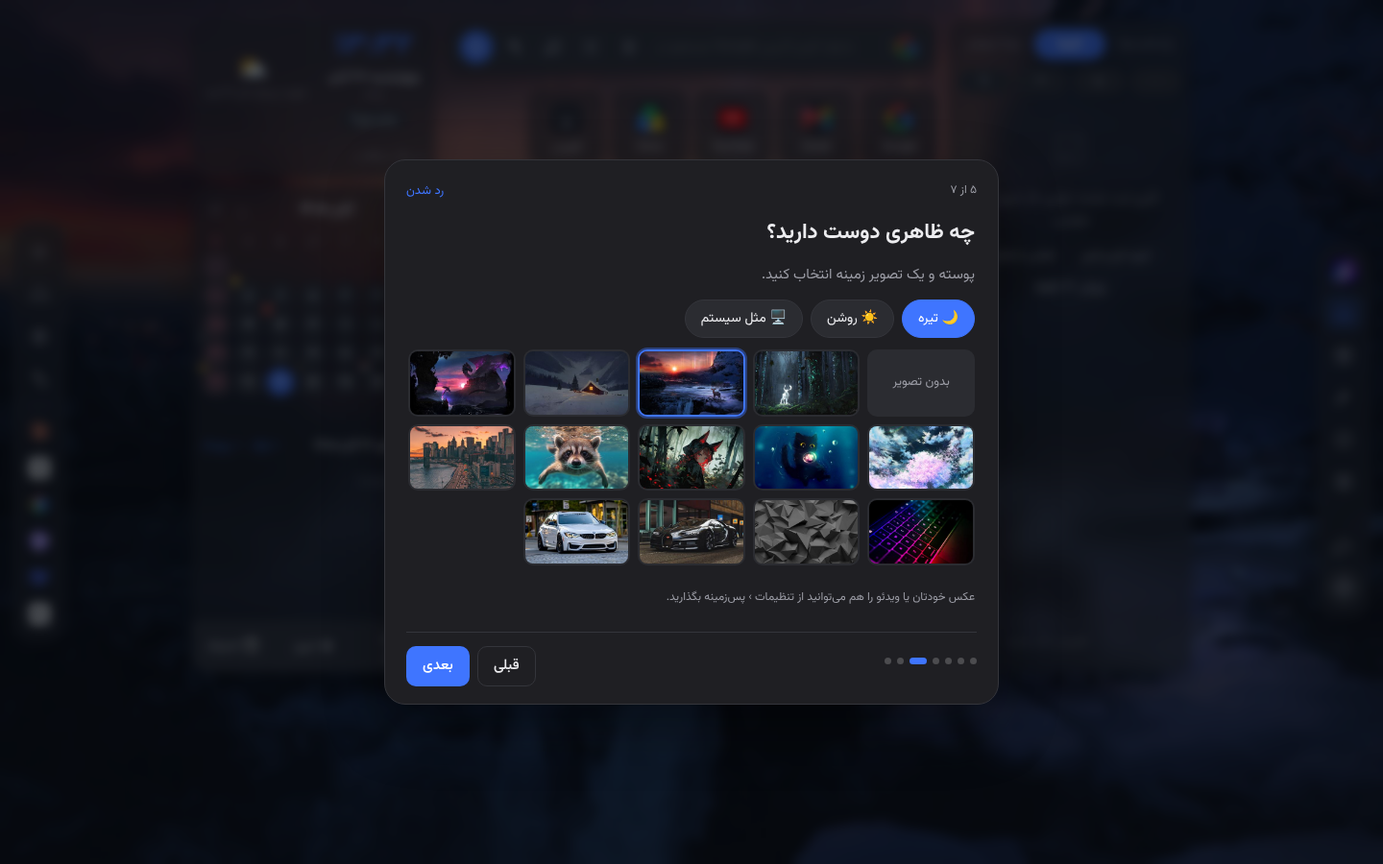
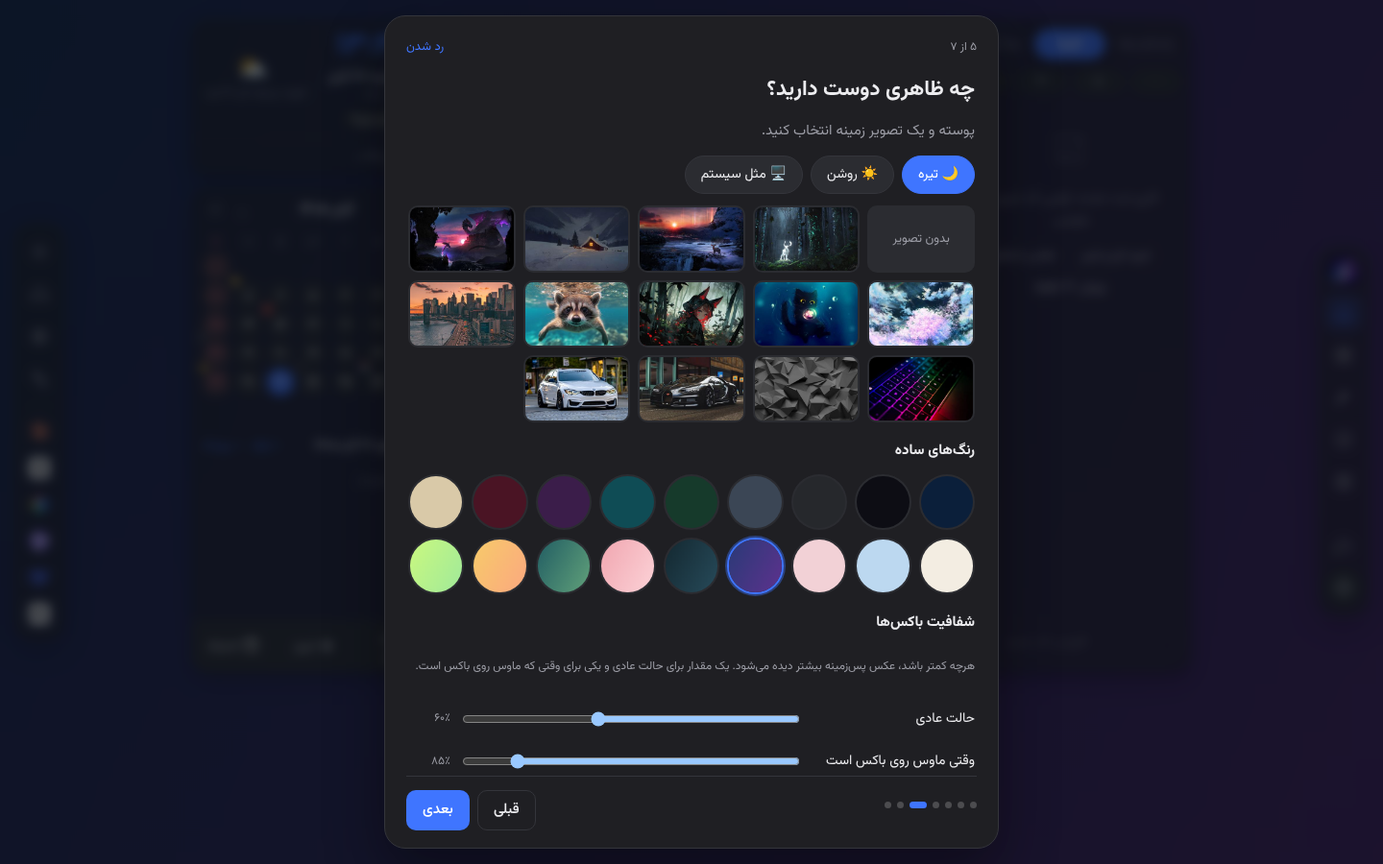
v2.15.1: plain colour backgrounds, box opacity in setup, Persian or Gregorian birthday
Claude-Session: https://claude.ai/code/session_01DpxMfDwJZ8eqR5twdjN4Bo

diff --git a/js/i18n.js b/js/i18n.js
@@ -4,6 +4,7 @@
 	"use strict";
 	const D = {};
 	D.fa = {
+		colorWalls: "رنگهای ساده", bdayPersian: "شمسی", bdayGregorian: "میلادی", bdayDay: "روز", bdayMonth: "ماه", bdayYear: "سال", bdayClear: "پاک کردن تاریخ تولد",
 		setupSkipAll: "رد شدن", setupStart: "بزن بریم", setupTour: "شروع گشت کوتاه", setupNoTour: "بدون گشت", setupHi: "سلام! به کامیار خوش آمدید 👋", setupHiText: "در چند قدم کوتاه کامیار را با سلیقهی شما آماده میکنیم. هر چیزی را بعداً هم میتوانید از تنظیمات عوض کنید. اول زبان را انتخاب کنید:", setupDataT: "اطلاعات قبلی دارید؟", setupDataText: "اگر قبلاً کامیار یا دستیار داشتهاید، اول اطلاعاتتان را بیاورید تا از صفر شروع نکنید.", setupChromeT: "حساب گوگل در کروم", setupChromeOn: "با حساب {email} وارد کروم شدهاید. اطلاعات کامیار خودکار در حساب گوگلتان نگه داشته میشود و به کامپیوترهای دیگرتان هم میآید.", setupChromeOff: "وارد کروم نشدهاید. اگر با حساب گوگل وارد کروم شوید، اطلاعات کامیار خودکار در حسابتان نگه داشته میشود و به کامپیوترهای دیگرتان میآید.", setupDriveT: "گوگل درایو", setupDriveText: "یک نسخه از همهچیز در گوگل درایو خودتان، برای بازگرداندن روی هر کامپیوتر.", setupWorking: "در حال وصل شدن…", setupDriveOk: "وصل شد ✓ {n} مورد در کامیار است.", setupDastyarT: "از دستیار میآیید؟", setupDastyarText: "کارها، یادداشتها، میانبرها، رویدادها و تولدها را از افزونهی دستیار منتقل کنید.", setupBackupT: "فایل پشتیبان کامیار دارید؟", setupBackupText: "فایل پشتیبانی را که قبلاً گرفتهاید باز کنید.", setupDataFresh: "اطلاعات قبلی ندارید؟ «بعدی» را بزنید.", setupYouT: "شما را چه صدا کنیم؟", setupYouText: "نامتان در سلام صبحگاهی و صفحهی اصلی میآید و روز تولدتان را هم تبریک میگوییم.", setupName: "نام", setupNamePh: "مثلاً محمد", setupBirthday: "تاریخ تولد (دلخواه)", setupYouNote: "این اطلاعات فقط در کامیار و حساب خودتان میماند.", setupCityT: "کجا زندگی میکنید؟", setupCityText: "برای آبوهوا، کیفیت هوا و اوقات شرعی. فقط نام شهر لازم است.", setupLookT: "چه ظاهری دوست دارید؟", setupLookText: "پوسته و یک تصویر زمینه انتخاب کنید.", setupDark: "تیره", setupLight: "روشن", setupAuto: "مثل سیستم", setupNoWall: "بدون تصویر", setupLookNote: "عکس خودتان یا ویدئو را هم میتوانید از تنظیمات › پسزمینه بگذارید.", setupBoxesT: "چه چیزهایی روی صفحه باشد؟", setupBoxesText: "باکسهایی را که لازم ندارید خاموش کنید. بعداً از دکمهی 🧩 «باکسها و قابلیتها» یا ✕ گوشهی هر باکس هم میشود عوضشان کرد.", setupHelpers: "یادآورها و کمکها", setupBoxesNote: "یادآور نماز وقتی کار میکند که شهرتان را انتخاب کرده باشید.", setupDoneT: "همهچیز آماده است!", setupDoneName: "{name}، همهچیز آماده است!", setupDoneText: "یک گشت کوتاه نشانتان میدهد هر چیز کجاست و چطور باکسها را روشن و خاموش کنید.",
 		svcWorld: "جهانی", svcIran: "ایرانی", svcMine: "دستههای من", svcSearch: "جستجوی سایت…", svcNoMatch: "سایتی پیدا نشد.", svcMineEmpty: "هنوز دستهای نساختهاید. یک دسته بسازید و سایتهای دلخواهتان را در آن بگذارید.",
 		svcManage: "مدیریت دستهها", svcManageHint: "دستههایی را که لازم ندارید خاموش کنید یا دستهی خودتان را بسازید و سایتهای دلخواهتان را در آن بگذارید.", svcNew: "دستهی جدید", svcNewName: "نام دسته، مثلاً سایتهای کاری", svcCats: "دستهها", svcHide: "خاموش کردن این دسته", svcHidden: "دستهی «{name}» خاموش شد. از ⚙ مدیریت دستهها روشنش کنید.", svcDeleted: "دستهی «{name}» حذف شد.", svcAddSite: "افزودن سایت", svcSiteName: "نام سایت", svcBadUrl: "نشانی سایت درست نیست.", svcEmpty: "هنوز سایتی اضافه نشده. با «افزودن سایت» شروع کنید.", salatRemind: "یادآور نماز", salatRemindHint: "وقتی وقت نماز باز است، کارتی کنار صفحه نشان میدهد چقدر تا پایان وقت مانده. شهر را در باکس آبوهوا انتخاب کنید.", salatFajr: "صبح", salatAsr: "ظهر و عصر", salatIsha: "مغرب و عشا", salatWhen: "کی نشان بده", salatAll: "از اول وقت", salat60: "یک ساعت مانده به پایان", salat30: "۳۰ دقیقه مانده به پایان", salat15: "۱۵ دقیقه مانده به پایان", salatNote: "پایان وقت: صبح تا طلوع آفتاب، ظهر و عصر تا غروب، مغرب و عشا تا نیمهشب شرعی. اوقات با روش مؤسسهی ژئوفیزیک دانشگاه تهران حساب میشود.", salatFajrT: "نماز صبح", salatAsrT: "نماز ظهر و عصر", salatIshaT: "نماز مغرب و عشا", salatLeft: "تا پایان وقت:", salatEnds: "{what} ساعت {at}", salatNeedCity: "برای یادآور نماز، اول شهرتان را در باکس آبوهوا وارد کنید.",
@@ -53,6 +54,7 @@
 		h_newyear: "سال نو میلادی", h_christmas: "کریسمس"
 	};
 	D.en = {
+		colorWalls: "Plain colours", bdayPersian: "Persian (Solar Hijri)", bdayGregorian: "Gregorian", bdayDay: "Day", bdayMonth: "Month", bdayYear: "Year", bdayClear: "Clear birthday",
 		setupSkipAll: "Skip", setupStart: "Let's go", setupTour: "Start the short tour", setupNoTour: "No tour", setupHi: "Hi! Welcome to Kamyar 👋", setupHiText: "A few quick steps to make Kamyar yours. You can change everything later in Settings. First, pick a language:", setupDataT: "Do you have data already?", setupDataText: "If you've used Kamyar or Dastyar before, bring your data in first so you don't start from scratch.", setupChromeT: "Google account in Chrome", setupChromeOn: "You're signed in to Chrome as {email}. Kamyar's data is kept in your Google account automatically and comes to your other computers too.", setupChromeOff: "You're not signed in to Chrome. Sign in with your Google account and Kamyar's data is kept in it automatically and comes to your other computers.", setupDriveT: "Google Drive", setupDriveText: "A copy of everything in your own Google Drive, to restore on any computer.", setupWorking: "Connecting…", setupDriveOk: "Connected ✓ Kamyar now has {n} items.", setupDastyarT: "Coming from Dastyar?", setupDastyarText: "Bring tasks, notes, shortcuts, events and birthdays over from the Dastyar extension.", setupBackupT: "Have a Kamyar backup file?", setupBackupText: "Open a backup file you saved before.", setupDataFresh: "Nothing to bring? Just press Next.", setupYouT: "What should we call you?", setupYouText: "Your name appears in the morning greeting and on the home page, and we'll wish you a happy birthday.", setupName: "Name", setupNamePh: "e.g. Sam", setupBirthday: "Birthday (optional)", setupYouNote: "This stays in Kamyar and your own account only.", setupCityT: "Where do you live?", setupCityText: "For weather, air quality and prayer times. Only the city name is needed.", setupLookT: "How should it look?", setupLookText: "Pick a theme and a background picture.", setupDark: "Dark", setupLight: "Light", setupAuto: "Like the system", setupNoWall: "No picture", setupLookNote: "You can also use your own photo or a video in Settings › Background.", setupBoxesT: "What should be on the page?", setupBoxesText: "Turn off boxes you don't need. You can change them later with 🧩 Boxes & features or the ✕ on each box.", setupHelpers: "Reminders and helpers", setupBoxesNote: "The prayer reminder works once your city is set.", setupDoneT: "All set!", setupDoneName: "{name}, you're all set!", setupDoneText: "A short tour shows where everything is and how to hide or show boxes.",
 		svcWorld: "Global", svcIran: "Iranian", svcMine: "My categories", svcSearch: "Search sites…", svcNoMatch: "No sites found.", svcMineEmpty: "You haven't made a category yet. Make one and put your favourite sites in it.",
 		svcManage: "Manage categories", svcManageHint: "Turn off categories you don't need, or make your own and put your favourite sites in it.", svcNew: "New category", svcNewName: "Category name, e.g. Work sites", svcCats: "Categories", svcHide: "Hide this category", svcHidden: "“{name}” is hidden. Turn it back on from ⚙ Manage categories.", svcDeleted: "“{name}” was deleted.", svcAddSite: "Add a site", svcSiteName: "Site name", svcBadUrl: "That address doesn't look right.", svcEmpty: "No sites yet. Start with “Add a site”.", salatRemind: "Prayer reminder", salatRemindHint: "While a prayer time is open, a card at the page edge shows how long is left. Pick your city in the weather box.", salatFajr: "Morning (Fajr)", salatAsr: "Noon & afternoon", salatIsha: "Evening & night", salatWhen: "Show it", salatAll: "From the start", salat60: "1 hour before the end", salat30: "30 minutes before the end", salat15: "15 minutes before the end", salatNote: "Ends: morning at sunrise, noon & afternoon at sunset, evening & night at the religious midnight. Times use the University of Tehran Geophysics method.", salatFajrT: "Morning prayer", salatAsrT: "Noon & afternoon prayer", salatIshaT: "Evening & night prayer", salatLeft: "Time left:", salatEnds: "{what} at {at}", salatNeedCity: "For the prayer reminder, first enter your city in the weather box.",
@@ -102,6 +104,7 @@
 		h_newyear: "New Year's Day", h_christmas: "Christmas"
 	};
 	D.fr = {
+		colorWalls: "Couleurs unies", bdayPersian: "Persan (hégire solaire)", bdayGregorian: "Grégorien", bdayDay: "Jour", bdayMonth: "Mois", bdayYear: "Année", bdayClear: "Effacer l'anniversaire",
 		setupSkipAll: "Passer", setupStart: "C'est parti", setupTour: "Lancer la visite", setupNoTour: "Sans visite", setupHi: "Bonjour ! Bienvenue dans Kamyar 👋", setupHiText: "Quelques étapes rapides pour personnaliser Kamyar. Tout reste modifiable dans les Réglages. Choisissez d'abord la langue :", setupDataT: "Vous avez déjà des données ?", setupDataText: "Si vous avez utilisé Kamyar ou Dastyar, importez d'abord vos données pour ne pas repartir de zéro.", setupChromeT: "Compte Google dans Chrome", setupChromeOn: "Vous êtes connecté à Chrome avec {email}. Les données de Kamyar sont gardées automatiquement dans votre compte Google et suivent vos autres ordinateurs.", setupChromeOff: "Vous n'êtes pas connecté à Chrome. Connectez-vous avec votre compte Google et les données de Kamyar y seront gardées automatiquement.", setupDriveT: "Google Drive", setupDriveText: "Une copie de tout dans votre Google Drive, à restaurer sur n'importe quel ordinateur.", setupWorking: "Connexion…", setupDriveOk: "Connecté ✓ Kamyar contient {n} éléments.", setupDastyarT: "Vous venez de Dastyar ?", setupDastyarText: "Importez tâches, notes, raccourcis, événements et anniversaires depuis l'extension Dastyar.", setupBackupT: "Un fichier de sauvegarde Kamyar ?", setupBackupText: "Ouvrez une sauvegarde faite auparavant.", setupDataFresh: "Rien à importer ? Appuyez sur Suivant.", setupYouT: "Comment vous appeler ?", setupYouText: "Votre nom apparaît dans le message du matin et sur l'accueil, et nous vous souhaiterons votre anniversaire.", setupName: "Nom", setupNamePh: "ex. Camille", setupBirthday: "Anniversaire (facultatif)", setupYouNote: "Ces données restent dans Kamyar et votre propre compte.", setupCityT: "Où habitez-vous ?", setupCityText: "Pour la météo, la qualité de l'air et les heures de prière. Le nom de la ville suffit.", setupLookT: "Quel style ?", setupLookText: "Choisissez un thème et une image de fond.", setupDark: "Sombre", setupLight: "Clair", setupAuto: "Comme le système", setupNoWall: "Sans image", setupLookNote: "Votre propre photo ou une vidéo se règle dans Réglages › Arrière-plan.", setupBoxesT: "Que mettre sur la page ?", setupBoxesText: "Désactivez les blocs inutiles. Modifiable plus tard via 🧩 Blocs et fonctions ou le ✕ de chaque bloc.", setupHelpers: "Rappels et aides", setupBoxesNote: "Le rappel de prière fonctionne une fois la ville choisie.", setupDoneT: "Tout est prêt !", setupDoneName: "{name}, tout est prêt !", setupDoneText: "Une courte visite montre où tout se trouve et comment masquer ou afficher les blocs.",
 		svcWorld: "International", svcIran: "Iraniens", svcMine: "Mes catégories", svcSearch: "Rechercher un site…", svcNoMatch: "Aucun site trouvé.", svcMineEmpty: "Vous n'avez pas encore de catégorie. Créez-en une pour vos sites préférés.",
 		svcManage: "Gérer les catégories", svcManageHint: "Désactivez les catégories inutiles ou créez la vôtre avec vos sites préférés.", svcNew: "Nouvelle catégorie", svcNewName: "Nom, ex. Sites de travail", svcCats: "Catégories", svcHide: "Masquer cette catégorie", svcHidden: "« {name} » est masquée. Réactivez-la via ⚙ Gérer les catégories.", svcDeleted: "« {name} » a été supprimée.", svcAddSite: "Ajouter un site", svcSiteName: "Nom du site", svcBadUrl: "Cette adresse semble incorrecte.", svcEmpty: "Aucun site pour l'instant. Commencez par « Ajouter un site ».", salatRemind: "Rappel de prière", salatRemindHint: "Pendant l'heure d'une prière, une carte au bord de la page indique le temps restant. Choisissez votre ville dans le bloc météo.", salatFajr: "Matin (Fajr)", salatAsr: "Midi et après-midi", salatIsha: "Soir et nuit", salatWhen: "Afficher", salatAll: "Dès le début", salat60: "1 h avant la fin", salat30: "30 min avant la fin", salat15: "15 min avant la fin", salatNote: "Fin : matin au lever du soleil, midi et après-midi au coucher, soir et nuit à minuit religieux. Méthode de l'Institut de géophysique de Téhéran.", salatFajrT: "Prière du matin", salatAsrT: "Prière de midi et de l'après-midi", salatIshaT: "Prière du soir et de la nuit", salatLeft: "Temps restant :", salatEnds: "{what} à {at}", salatNeedCity: "Pour le rappel de prière, indiquez d'abord votre ville dans le bloc météo.",
@@ -151,6 +154,7 @@
 		h_newyear: "Jour de l'An", h_christmas: "Noël"
 	};
 	D.de = {
+		colorWalls: "Einfarbig", bdayPersian: "Persisch (Sonnenhidschra)", bdayGregorian: "Gregorianisch", bdayDay: "Tag", bdayMonth: "Monat", bdayYear: "Jahr", bdayClear: "Geburtstag löschen",
 		setupSkipAll: "Überspringen", setupStart: "Los geht's", setupTour: "Kurze Tour starten", setupNoTour: "Ohne Tour", setupHi: "Hallo! Willkommen bei Kamyar 👋", setupHiText: "Ein paar kurze Schritte, um Kamyar einzurichten. Alles lässt sich später in den Einstellungen ändern. Wähle zuerst die Sprache:", setupDataT: "Hast du schon Daten?", setupDataText: "Wenn du Kamyar oder Dastyar schon genutzt hast, hol zuerst deine Daten, damit du nicht bei null anfängst.", setupChromeT: "Google-Konto in Chrome", setupChromeOn: "Du bist in Chrome als {email} angemeldet. Kamyars Daten werden automatisch in deinem Google-Konto gespeichert und kommen auf deine anderen Computer.", setupChromeOff: "Du bist nicht in Chrome angemeldet. Melde dich mit deinem Google-Konto an, dann werden Kamyars Daten automatisch darin gespeichert.", setupDriveT: "Google Drive", setupDriveText: "Eine Kopie von allem in deinem eigenen Google Drive, auf jedem Computer wiederherstellbar.", setupWorking: "Verbinde…", setupDriveOk: "Verbunden ✓ Kamyar hat jetzt {n} Einträge.", setupDastyarT: "Kommst du von Dastyar?", setupDastyarText: "Übernimm Aufgaben, Notizen, Verknüpfungen, Termine und Geburtstage aus der Dastyar-Erweiterung.", setupBackupT: "Eine Kamyar-Sicherung?", setupBackupText: "Öffne eine früher gespeicherte Sicherungsdatei.", setupDataFresh: "Nichts zu übernehmen? Einfach Weiter drücken.", setupYouT: "Wie sollen wir dich nennen?", setupYouText: "Dein Name erscheint im Morgengruß und auf der Startseite, und wir gratulieren dir zum Geburtstag.", setupName: "Name", setupNamePh: "z. B. Alex", setupBirthday: "Geburtstag (optional)", setupYouNote: "Das bleibt nur in Kamyar und deinem eigenen Konto.", setupCityT: "Wo wohnst du?", setupCityText: "Für Wetter, Luftqualität und Gebetszeiten. Nur der Stadtname wird gebraucht.", setupLookT: "Wie soll es aussehen?", setupLookText: "Wähle ein Design und ein Hintergrundbild.", setupDark: "Dunkel", setupLight: "Hell", setupAuto: "Wie das System", setupNoWall: "Kein Bild", setupLookNote: "Eigenes Foto oder Video unter Einstellungen › Hintergrund.", setupBoxesT: "Was soll auf die Seite?", setupBoxesText: "Schalte Boxen aus, die du nicht brauchst. Später änderbar über 🧩 Boxen & Funktionen oder das ✕ jeder Box.", setupHelpers: "Erinnerungen und Helfer", setupBoxesNote: "Die Gebetserinnerung funktioniert, sobald deine Stadt gesetzt ist.", setupDoneT: "Alles bereit!", setupDoneName: "{name}, alles bereit!", setupDoneText: "Eine kurze Tour zeigt, wo alles ist und wie man Boxen aus- und einblendet.",
 		svcWorld: "International", svcIran: "Iranisch", svcMine: "Meine Kategorien", svcSearch: "Seiten suchen…", svcNoMatch: "Keine Seiten gefunden.", svcMineEmpty: "Du hast noch keine Kategorie. Lege eine für deine Lieblingsseiten an.",
 		svcManage: "Kategorien verwalten", svcManageHint: "Schalte unnötige Kategorien aus oder lege eine eigene mit deinen Lieblingsseiten an.", svcNew: "Neue Kategorie", svcNewName: "Name, z. B. Arbeitsseiten", svcCats: "Kategorien", svcHide: "Kategorie ausblenden", svcHidden: "„{name}“ ist ausgeblendet. Über ⚙ Kategorien verwalten wieder einschalten.", svcDeleted: "„{name}“ wurde gelöscht.", svcAddSite: "Seite hinzufügen", svcSiteName: "Name der Seite", svcBadUrl: "Diese Adresse sieht nicht richtig aus.", svcEmpty: "Noch keine Seiten. Beginne mit „Seite hinzufügen“.", salatRemind: "Gebetserinnerung", salatRemindHint: "Solange eine Gebetszeit läuft, zeigt eine Karte am Rand, wie viel Zeit bleibt. Wähle deine Stadt in der Wetterbox.", salatFajr: "Morgen (Fadschr)", salatAsr: "Mittag & Nachmittag", salatIsha: "Abend & Nacht", salatWhen: "Anzeigen", salatAll: "Ab Beginn", salat60: "1 Std. vor Ende", salat30: "30 Min. vor Ende", salat15: "15 Min. vor Ende", salatNote: "Ende: Morgen bei Sonnenaufgang, Mittag & Nachmittag bei Sonnenuntergang, Abend & Nacht um religiöse Mitternacht. Methode des Geophysik-Instituts Teheran.", salatFajrT: "Morgengebet", salatAsrT: "Mittags- & Nachmittagsgebet", salatIshaT: "Abend- & Nachtgebet", salatLeft: "Verbleibend:", salatEnds: "{what} um {at}", salatNeedCity: "Für die Gebetserinnerung zuerst deine Stadt in der Wetterbox eingeben.",

diff --git a/js/settings.js b/js/settings.js
@@ -53,7 +53,6 @@
 		$("acctBtn").className = email ? "btn btn-ghost" : "btn";
 		$("usernameInput").value = setting("username", "");
 		const bd = setting("birthday", "");
-		$("bdayInput").value = bd && bd.date ? bd.date : "";
 	}
 	// Chrome's own page for signing in, switching or signing out of the Google account.
 	$("acctBtn").addEventListener("click", () => chrome.tabs.create({ url: "chrome://settings/people" }));
@@ -70,10 +69,51 @@
 	});
 	$("avatarRemove").addEventListener("click", () => Store.setSetting("avatar", ""));
 	$("usernameInput").addEventListener("change", (e) => Store.setSetting("username", e.target.value.trim().replace(/^@/, "")));
-	$("bdayInput").addEventListener("change", (e) => {
-		const v = e.target.value;
-		const old = setting("birthday", "");
-		Store.setSetting("birthday", v ? { date: v, cal: (old && old.cal) || (I18n.lang === "fa" ? "persian" : "gregory") } : "");
+	/* Birthday picker: Persian (Solar Hijri) or Gregorian, whichever is easier; saved as a Gregorian date
+	 * plus the calendar it was entered in ({ date: "yyyy-mm-dd", cal }). Used in Settings and in the first-run setup. */
+	const PMONTHS = ["فروردین", "اردیبهشت", "خرداد", "تیر", "مرداد", "شهریور", "مهر", "آبان", "آذر", "دی", "بهمن", "اسفند"];
+	const PMONTHS_LATIN = ["Farvardin", "Ordibehesht", "Khordad", "Tir", "Mordad", "Shahrivar", "Mehr", "Aban", "Azar", "Dey", "Bahman", "Esfand"];
+	function partsOf(iso, cal) {
+		if (!iso) return null;
+		const d = new Date(iso + "T12:00:00");
+		if (cal !== "persian") return { y: d.getFullYear(), m: d.getMonth() + 1, d: d.getDate() };
+		const p = {};
+		for (const x of new Intl.DateTimeFormat("en-u-ca-persian-nu-latn", { year: "numeric", month: "numeric", day: "numeric" }).formatToParts(d)) p[x.type] = parseInt(x.value, 10);
+		return { y: p.year, m: p.month, d: p.day };
+	}
+	H.bdayPicker = function () {
+		const saved = setting("birthday", "") || {};
+		let cal = saved.cal || (I18n.lang === "fa" ? "persian" : "gregory");
+		const box = el("div", { class: "bday" });
+		function draw() {
+			const cur = setting("birthday", "") || {};
+			const p = partsOf(cur.date, cal) || {};
+			const months = cal === "persian" ? (I18n.lang === "fa" ? PMONTHS : PMONTHS_LATIN) : Array.from({ length: 12 }, (_, i) => new Intl.DateTimeFormat(I18n.locale, { month: "long" }).format(new Date(2001, i, 1)));
+			const day = el("select", { "aria-label": t("bdayDay") }, el("option", { value: "" }, t("bdayDay")), ...Array.from({ length: 31 }, (_, i) => el("option", { value: i + 1, selected: p.d === i + 1 }, H.num(i + 1))));
+			const month = el("select", { "aria-label": t("bdayMonth") }, el("option", { value: "" }, t("bdayMonth")), ...months.map((n, i) => el("option", { value: i + 1, selected: p.m === i + 1 }, n)));
+			const year = el("input", { type: "number", inputmode: "numeric", placeholder: cal === "persian" ? "۱۳۷۰" : "1990", min: cal === "persian" ? 1280 : 1900, max: cal === "persian" ? 1420 : 2040, value: p.y || "", "aria-label": t("bdayYear") });
+			const save = () => {
+				const y = Number(year.value), m = Number(month.value), d = Number(day.value);
+				if (!y || !m || !d) return;
+				const iso = cal === "persian" ? DastyarImport.j2g(y, m, d) : `${y}-${String(m).padStart(2, "0")}-${String(d).padStart(2, "0")}`;
+				Store.setSetting("birthday", { date: iso, cal });
+			};
+			[day, month, year].forEach((x) => x.addEventListener("change", save));
+			box.replaceChildren(...[
+				el("div", { class: "bday-cal" }, ...[["persian", "bdayPersian"], ["gregory", "bdayGregorian"]].map(([c, label]) =>
+					el("button", { type: "button", class: "bday-chip" + (c === cal ? " on" : ""), onclick: () => { cal = c; draw(); } }, t(label)))),
+				el("div", { class: "bday-row" }, day, month, year),
+				cur.date ? el("button", { type: "button", class: "link-btn small", onclick: () => { Store.setSetting("birthday", ""); draw(); } }, t("bdayClear")) : null].filter(Boolean));
+		}
+		draw();
+		return box;
+	};
+	const bdayBox = H.bdayPicker();
+	$("bdayInput").replaceWith(bdayBox);
+	bdayBox.id = "bdayInput";
+	H.onRefresh(() => {
+		const cur = $("bdayInput");
+		if (cur && !cur.contains(document.activeElement)) cur.replaceWith(Object.assign(H.bdayPicker(), { id: "bdayInput" }));
 	});
 	// Small square JPEG so the avatar fits in Chrome Sync next to everything else.
 	function squareImage(file, size) {

diff --git a/js/themes.js b/js/themes.js
@@ -232,8 +232,35 @@
 	/* Ready-made wallpapers that ship with the extension. */
 	const BUILTIN = ["spirit-deer", "winter-deer", "snow-cabin", "dragon", "sakura", "bubble-cat", "forest-girl", "raccoon", "new-york", "keyboard", "low-poly", "bugatti", "bmw"]
 		.map((n) => ({ id: "b-" + n, data: "/wallpapers/" + n + ".jpg", thumb: "/wallpapers/thumbs/" + n + ".jpg", builtin: true }));
+	/* Plain colours and soft gradients, drawn as a tiny picture so they work like any wallpaper
+	 * (dimming, box opacity, hover). */
+	const COLOR_LIST = [
+		["navy", "#0b1f3a"], ["midnight", "#0d0d14"], ["charcoal", "#26282c"], ["slate", "#3b4655"], ["forest", "#163a2b"], ["teal", "#0f4c55"],
+		["plum", "#3b1d4a"], ["wine", "#4a1424"], ["sand", "#d9c9a8"], ["cream", "#f3ede2"], ["sky", "#bcd8f0"], ["blush", "#f2d1d6"],
+		["dusk", "#1e3c72", "#6a3093"], ["ocean", "#0f2027", "#2c5364"], ["sunset", "#ee9ca7", "#ffdde1"], ["aurora", "#134e5e", "#71b280"], ["peach", "#f6d365", "#fda085"], ["mint", "#d4fc79", "#96e6a1"]
+	];
+	let COLORS = null;
+	function colors() {
+		if (COLORS) return COLORS;
+		COLORS = COLOR_LIST.map(([name, a, b]) => {
+			const c = document.createElement("canvas");
+			c.width = 64;
+			c.height = 36;
+			const g = c.getContext("2d");
+			if (b) {
+				const gr = g.createLinearGradient(0, 0, 64, 36);
+				gr.addColorStop(0, a);
+				gr.addColorStop(1, b);
+				g.fillStyle = gr;
+			} else g.fillStyle = a;
+			g.fillRect(0, 0, 64, 36);
+			const data = c.toDataURL("image/png");
+			return { id: "c-" + name, data, thumb: data, color: true };
+		});
+		return COLORS;
+	}
 	async function useWall(id) {
-		const w = BUILTIN.find((x) => x.id === id) || (await walls()).find((x) => x.id === id);
+		const w = BUILTIN.find((x) => x.id === id) || (id.startsWith("c-") && colors().find((x) => x.id === id)) || (await walls()).find((x) => x.id === id);
 		if (!w) return false;
 		ls("hamyar_wall_id", id);
 		ls("hamyar_wall_at", String(Date.now()));
@@ -249,6 +276,7 @@
 		// Own pictures rotate among themselves; otherwise the ready-made ones join in.
 		const own = await walls();
 		const cur = ls("hamyar_wall_id") || "";
+		if (cur.startsWith("c-")) return;
 		const list = own.length >= 2 && !cur.startsWith("b-") ? own : [...BUILTIN, ...own];
 		if (list.length < 2) return;
 		// The next picture is prepared for the next tab, so this one doesn't flash from one wallpaper to another.
@@ -262,6 +290,6 @@
 	}
 
 	window.Themes = { list, byId, apply, applyWallpaper, readWallpaper, setWallpaper, setDim, boxAlpha, setBoxAlpha, hasWall: () => !!ls("hamyar_wall"), hasVideo: () => ls("hamyar_video") === "1", setVideo, getVideo, dim: () => Number(ls("hamyar_wall_dim") || 35),
-		applyFont, FONTS, FONT_LIST, isDay, walls, addWall, removeWall, useWall, BUILTIN, rotate, ROTATE,
+		applyFont, FONTS, FONT_LIST, isDay, walls, addWall, removeWall, useWall, BUILTIN, colors, rotate, ROTATE,
 		rotation: (v) => (v === undefined ? ls("hamyar_wall_rotate") || "off" : ls("hamyar_wall_rotate", v)), activeWall: () => ls("hamyar_wall_id") };
 })();

diff --git a/js/setup.js b/js/setup.js
@@ -53,11 +53,10 @@
 			return out;
 		},
 		you() {
-			const bd = setting("birthday", "");
 			return [
 				...head("setupYouT", "setupYouText"),
 				el("label", { class: "fld" }, el("span", {}, t("setupName")), el("input", { type: "text", maxlength: 40, value: setting("name", ""), placeholder: t("setupNamePh"), oninput: (e) => Store.setSetting("name", e.target.value.trim()) })),
-				el("label", { class: "fld" }, el("span", {}, t("setupBirthday")), el("input", { type: "date", value: bd && bd.date ? bd.date : "", onchange: (e) => Store.setSetting("birthday", e.target.value ? { date: e.target.value, cal: I18n.lang === "fa" ? "persian" : "gregory" } : "") })),
+				el("div", { class: "fld" }, el("span", {}, t("setupBirthday")), H.bdayPicker()),
 				el("p", { class: "muted small" }, t("setupYouNote"))
 			];
 		},
@@ -105,6 +104,19 @@
 				el("div", { class: "setup-walls" },
 					el("button", { type: "button", class: "setup-wall none" + (!active ? " on" : ""), onclick: () => pick(null) }, t("setupNoWall")),
 					...Themes.BUILTIN.map((w) => el("button", { type: "button", class: "setup-wall" + (w.id === active ? " on" : ""), onclick: () => pick(w.id) }, el("img", { src: w.thumb, alt: "", loading: "lazy" })))),
+				el("h4", {}, t("colorWalls")),
+				el("div", { class: "setup-walls colors" }, ...Themes.colors().map((w) => el("button", { type: "button", class: "setup-wall" + (w.id === active ? " on" : ""), title: w.id.slice(2), onclick: () => pick(w.id) }, el("img", { src: w.thumb, alt: "" })))),
+				el("h4", {}, t("boxAlphaTitle")),
+				el("p", { class: "muted small" }, t(Themes.hasWall() || Themes.hasVideo() ? "boxAlphaHint" : "boxAlphaNoWall")),
+				...[["boxAlphaIdle", 0], ["boxAlphaHover", 1]].map(([label, k]) => {
+					const outEl = el("output", { class: "small muted" }, H.num(Themes.boxAlpha()[k]) + (I18n.lang === "fa" ? "٪" : "%"));
+					const r = el("input", { type: "range", min: 0, max: 100, step: 5, value: Themes.boxAlpha()[k], oninput: (e) => {
+						const v = Number(e.target.value);
+						Themes.setBoxAlpha(k ? null : v, k ? v : null);
+						outEl.textContent = H.num(v) + (I18n.lang === "fa" ? "٪" : "%");
+					}, onchange: () => Store.setSetting("boxAlpha", Themes.boxAlpha()) });
+					return el("label", { class: "range-row setup-range" }, el("span", {}, t(label)), r, outEl);
+				}),
 				el("p", { class: "muted small" }, t("setupLookNote"))
 			];
 		},

diff --git a/css/style.css b/css/style.css
@@ -1451,3 +1451,15 @@ html.tour-boxes [data-widget="daily"] > .box-x { animation: boxPulse 1.2s ease-i
 .setup .manage-item input.switch::after { content: ""; position: absolute; top: 3px; inset-inline-start: 3px; width: 18px; height: 18px; border-radius: 50%; background: #fff; box-shadow: 0 1px 3px rgb(0 0 0 / .3); transition: inset-inline-start .2s; }
 .setup .manage-item input.switch:checked { background: var(--accent); }
 .setup .manage-item input.switch:checked::after { inset-inline-start: 21px; }
+.wall-grid.colors, .setup-walls.colors { grid-template-columns: repeat(auto-fill, minmax(56px, 1fr)); }
+.wall-th.color, .setup-walls.colors .setup-wall { aspect-ratio: 1; border-radius: 50%; }
+.wall-th.color img { border-radius: 50%; }
+.setup-range { display: grid; grid-template-columns: 170px 1fr 44px; align-items: center; gap: 10px; font-size: 14px; }
+.bday { display: flex; flex-direction: column; gap: 8px; align-items: flex-start; }
+.bday-cal { display: inline-flex; gap: 4px; padding: 3px; border-radius: 999px; background: var(--surface-2); }
+.bday-chip { border: 0; background: none; color: var(--text); border-radius: 999px; padding: 5px 14px; font: inherit; font-size: 13px; cursor: pointer; }
+.bday-chip.on { background: var(--accent); color: var(--accent-ink); }
+.bday-row { display: flex; gap: 8px; width: 100%; }
+.bday-row select, .bday-row input { height: 40px; border-radius: 10px; border: 1px solid var(--border); background: var(--surface-2); color: var(--text); padding: 0 10px; font: inherit; }
+.bday-row select { flex: 1; }
+.bday-row input { width: 110px; }

diff --git a/js/app.js b/js/app.js
@@ -641,7 +641,7 @@
 	async function renderWalls() {
 		let list = await Themes.walls().catch(() => []);
 		// A wallpaper chosen before collections existed joins the collection.
-		if (!list.length && Themes.hasWall() && !String(Themes.activeWall() || "").startsWith("b-")) {
+		if (!list.length && Themes.hasWall() && !/^[bc]-/.test(String(Themes.activeWall() || ""))) {
 			try {
 				const id = await Themes.addWall(localStorage.getItem("hamyar_wall"));
 				localStorage.setItem("hamyar_wall_id", id);
@@ -649,6 +649,8 @@
 			} catch {}
 		}
 		const active = Themes.hasWall() ? Themes.activeWall() : null;
+		$("colorWalls").replaceChildren(...Themes.colors().map((w) => el("div", { class: "wall-th color" + (w.id === active ? " on" : "") },
+			el("button", { type: "button", class: "wall-pick", "aria-pressed": String(w.id === active), title: t("useWallpaper"), onclick: async () => { await Themes.useWall(w.id); Store.setSetting("wallBuiltin", w.id); renderThemeGrid(); } }, el("img", { src: w.thumb, alt: "" })))));
 		$("builtinWalls").replaceChildren(...Themes.BUILTIN.map((w) => el("div", { class: "wall-th" + (w.id === active ? " on" : "") },
 			el("button", { type: "button", class: "wall-pick", "aria-pressed": String(w.id === active), title: t("useWallpaper"), onclick: async () => { await Themes.useWall(w.id); Store.setSetting("wallBuiltin", w.id); renderThemeGrid(); } }, el("img", { src: w.thumb, alt: "", loading: "lazy" })))));
 		$("wallGrid").replaceChildren(

diff --git a/newtab.html b/newtab.html
@@ -673,6 +673,8 @@
 				</section>
 
 				<section class="set-sec" data-sec="background" hidden>
+					<h4 data-i18n="colorWalls"></h4>
+					<div id="colorWalls" class="wall-grid colors"></div>
 					<h4 data-i18n="builtinWalls"></h4>
 					<div id="builtinWalls" class="wall-grid builtin"></div>
 					<h4 data-i18n="wallpaper"></h4>

diff --git a/.github/release-notes.md b/.github/release-notes.md
@@ -14,6 +14,8 @@ The first public release of Kamyar, a personal new-tab page for Chrome with no a
 راهنمای کامل و انتقال از دستیار در [README](https://github.com/M-Mashreghi/Kamyar#نصب) است. Full guide and Dastyar import: [README](https://github.com/M-Mashreghi/Kamyar#install).
 
 ### تازههای این نسخه · New in this version
+- 🎨 ۱۸ رنگ ساده و ملایم برای پسزمینه، و تنظیم شفافیت در همان راهاندازی اول · 18 plain colours and soft gradients as backgrounds; box opacity in the first-run setup
+- 🎂 تاریخ تولد به شمسی یا میلادی · Birthday in the Persian or Gregorian calendar
 - 👋 راهاندازی اول کار با چند سؤال کوتاه (زبان، اطلاعات قبلی، نام، شهر، ظاهر، باکسها) · First-run setup with a few short questions
 - 🔄 همگامسازی درستتر: تنظیمات کامپیوترهای مختلف دیگر روی هم پاک نمیشوند و میانبرهای پیشفرض دوتا نمیشوند؛ شفافیت و تصویر زمینهی آماده هم همگام میشوند · Safer sync: settings from different computers no longer overwrite each other, no doubled starter shortcuts; box opacity and the ready-made wallpaper sync too
 - 🇮🇷 نزدیک ۲۷۰ سایت ایرانی در ۲۴ دسته در صفحهی سرویسها · About 270 Iranian sites in 24 Services categories

diff --git a/README.md b/README.md
@@ -6,7 +6,7 @@
 
 <p align="center">
   <img alt="Chrome MV3" src="https://img.shields.io/badge/Chrome-Manifest%20V3-4285F4?logo=googlechrome&logoColor=white" />
-  <img alt="Version" src="https://img.shields.io/badge/version-2.15.0-6c4ff0" />
+  <img alt="Version" src="https://img.shields.io/badge/version-2.15.1-6c4ff0" />
   <img alt="Languages" src="https://img.shields.io/badge/languages-FA%20%7C%20EN%20%7C%20FR%20%7C%20DE-14b8a6" />
   <img alt="No ads" src="https://img.shields.io/badge/ads-none-3db985" />
   <img alt="No tracking" src="https://img.shields.io/badge/tracking-none-3db985" />
